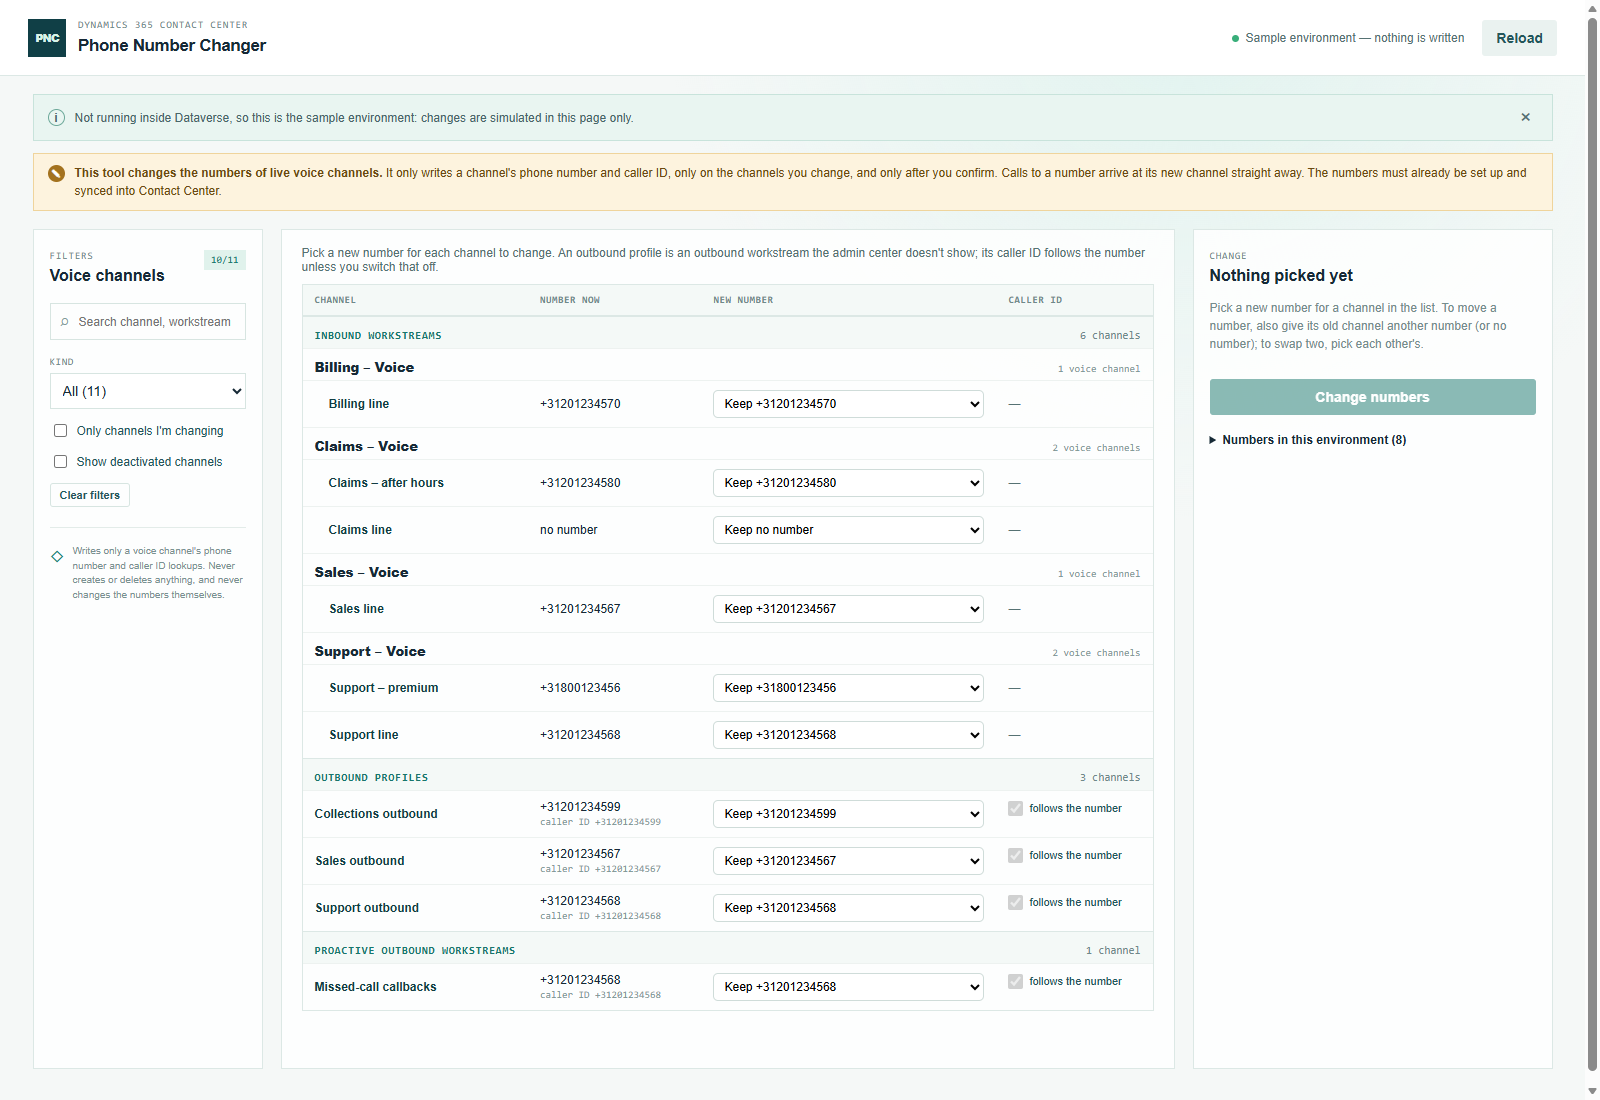
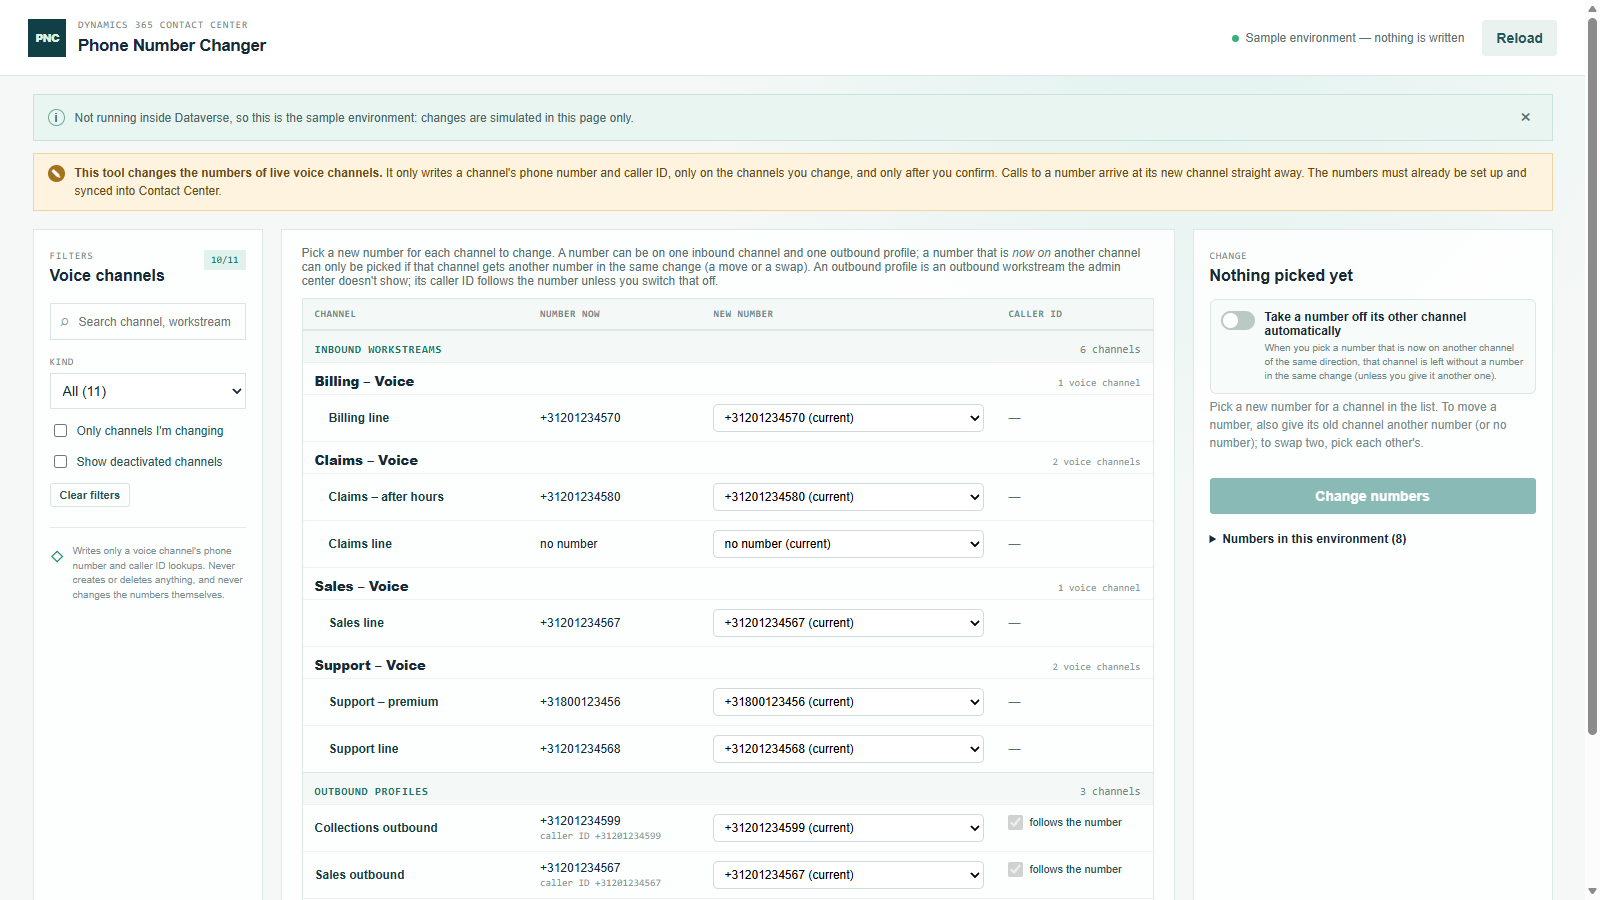
Phone Number Changer: switch to take a number off its other channel automatically
With the switch on (off by default), picking a number that is now on
another channel of the same direction also takes it off that channel in the
same change, shown as "taken off automatically"; a profile's caller ID goes
with it only when it was the same number.

diff --git a/tools/phone-number-changer/src/App.tsx b/tools/phone-number-changer/src/App.tsx
@@ -11,7 +11,7 @@ import { clientUrl, dataverseSource, isDataverseAvailable } from "./dataverse";
 import { demoSource } from "./demoData";
 import { runLogCsv } from "./export";
 import { ApplyResult, ChannelRow, Edit, isOutbound, Kind, KIND_LABELS, KIND_PLURALS, PhoneNumber } from "./model";
-import { choicesFor, describeChange, numberLabel, orderSteps, planChanges, revertEdits } from "./plan";
+import { choicesFor, describeChange, numberLabel, orderSteps, planChanges, revertEdits, withDetaches } from "./plan";
 
 interface Filter { search: string; kind: "all" | Kind; includeInactive: boolean; changedOnly: boolean; }
 const EMPTY_FILTER: Filter = { search: "", kind: "all", includeInactive: false, changedOnly: false };
@@ -32,6 +32,9 @@ export function App(): React.ReactElement {
   const [message, setMessage] = useState(live ? "" : "Not running inside Dataverse, so this is the sample environment: changes are simulated in this page only.");
   const [filter, setFilter] = useState<Filter>(EMPTY_FILTER);
   const [edits, setEdits] = useState<Map<string, Edit>>(new Map());
+  // Take a number off its other channel automatically when another channel gets it.
+  const [detach, setDetach] = useState(false);
+  const effective = useMemo(() => (detach ? withDetaches(channels, edits) : edits), [detach, channels, edits]);
   const [confirming, setConfirming] = useState(false);
   const [progress, setProgress] = useState<ApplyProgress | undefined>(undefined);
   const [run, setRun] = useState<RunRecord | undefined>(undefined);
@@ -53,7 +56,7 @@ export function App(): React.ReactElement {
   useEffect(() => { void reload(); }, []);
 
   const numberById = useMemo(() => new Map(numbers.map((n) => [n.id, n])), [numbers]);
-  const plan = useMemo(() => planChanges(channels, numbers, edits), [channels, numbers, edits]);
+  const plan = useMemo(() => planChanges(channels, numbers, effective), [channels, numbers, effective]);
   const changeById = useMemo(() => new Map(plan.changes.map((c) => [c.channel.id, c])), [plan]);
   const issuesById = useMemo(() => {
     const m = new Map<string, typeof plan.issues>();
@@ -162,7 +165,7 @@ export function App(): React.ReactElement {
 
       <section className="content">
         <div className="selection-bar">
-          <span>Pick a new number for each channel to change. A number can be on one inbound channel and one outbound profile; a number that is <em>now on</em> another channel can only be picked if that channel gets another number in the same change (a move or a swap). An outbound profile is an outbound workstream the admin center doesn't show; its caller ID follows the number unless you switch that off.</span>
+          <span>Pick a new number for each channel to change. A number can be on one inbound channel and one outbound profile; a number that is <em>now on</em> another channel can only be picked if that channel gets another number in the same change (a move or a swap), or with <strong>Take a number off its other channel automatically</strong> switched on. An outbound profile is an outbound workstream the admin center doesn't show; its caller ID follows the number unless you switch that off.</span>
           {edits.size > 0 && <button className="button ghost small" onClick={() => { setEdits(new Map()); setConfirming(false); }}>Undo all picks</button>}
         </div>
         <div className="data-table number-table" role="table" aria-label="Voice channels and their numbers">
@@ -187,7 +190,7 @@ export function App(): React.ReactElement {
                   <option value="">{numberLabel(numberById, c.numberId)} (current)</option>
                   {choicesFor(c, numbers, channels).map(({ number, reason, heldBy }) => (
                     <option key={number.id} value={number.id} disabled={!!reason}>
-                      {number.number} — {reason ?? (heldBy.length ? `now on ${heldBy.map((h) => h.name).join(", ")}` : "free")}
+                      {number.number} — {reason ?? (heldBy.length ? `now on ${heldBy.map((h) => h.name).join(", ")}${detach ? " (taken off it)" : ""}` : "free")}
                     </option>
                   ))}
                   {c.numberId && <option value="none">No number</option>}
@@ -204,8 +207,12 @@ export function App(): React.ReactElement {
       <aside className="inspector">
         <p className="eyebrow">Change</p>
         <h2>{plan.changes.length ? `${plan.changes.length} channel${plan.changes.length === 1 ? "" : "s"} to change` : "Nothing picked yet"}</h2>
+        <label className="switch-row">
+          <input type="checkbox" role="switch" checked={detach} disabled={busy} onChange={(e) => { setDetach(e.target.checked); setConfirming(false); }} />
+          <span><strong>Take a number off its other channel automatically</strong><small>When you pick a number that is now on another channel of the same direction, that channel is left without a number in the same change (unless you give it another one).</small></span>
+        </label>
         {plan.changes.length ? <ul className="plan-list">
-          {plan.changes.map((c) => <li key={c.channel.id} className={(issuesById.get(c.channel.id) ?? []).some((i) => i.severity === "error") ? "error" : ""}>
+          {plan.changes.map((c) => <li key={c.channel.id} className={`${(issuesById.get(c.channel.id) ?? []).some((i) => i.severity === "error") ? "error" : ""} ${c.auto ? "auto" : ""}`}>
             <strong>{c.channel.name}</strong><span>{describeChange(c, numberById)}</span>
           </li>)}
         </ul> : <p className="muted">Pick a new number for a channel in the list. To move a number, also give its old channel another number (or no number); to swap two, pick each other's.</p>}
@@ -215,7 +222,7 @@ export function App(): React.ReactElement {
           ? <button className="button primary full" disabled={!plan.changes.length || errors.length > 0 || busy} onClick={() => setConfirming(true)}>Change {plan.changes.length || ""} number{plan.changes.length === 1 ? "" : "s"}</button>
           : <div className="confirm-box">
             <p><strong>Change the numbers of {plan.changes.length} voice channel{plan.changes.length === 1 ? "" : "s"} in {environment}?</strong> Calls to a moved number arrive at its new channel straight away. You can revert this afterwards, and download a log of it.</p>
-            <div><button className="button ghost" onClick={() => setConfirming(false)}>Cancel</button><button className="button danger" onClick={() => void runSteps("apply", edits)}>Yes, change</button></div>
+            <div><button className="button ghost" onClick={() => setConfirming(false)}>Cancel</button><button className="button danger" onClick={() => void runSteps("apply", effective)}>Yes, change</button></div>
           </div>}
 
         <details className="numbers-overview">

diff --git a/tools/phone-number-changer/tests/plan.test.ts b/tools/phone-number-changer/tests/plan.test.ts
@@ -2,7 +2,7 @@
 // SPDX-License-Identifier: MIT
 
 import { ChannelRow, Edit, PhoneNumber } from "../src/model";
-import { afterOf, choicesFor, orderSteps, planChanges, revertEdits } from "../src/plan";
+import { afterOf, choicesFor, orderSteps, planChanges, revertEdits, withDetaches } from "../src/plan";
 
 const n = (id: string, extra: Partial<PhoneNumber> = {}): PhoneNumber => ({ id, number: `+31${id}`, active: true, inbound: true, outbound: true, ...extra });
 const ch = (id: string, kind: ChannelRow["kind"], numberId?: string, callerIdId?: string, extra: Partial<ChannelRow> = {}): ChannelRow =>
@@ -102,5 +102,27 @@ describe("revertEdits", () => {
     const plan = planChanges([p, a], numbers, edits(["p", { numberId: "3", callerIdFollows: false }], ["a", { numberId: "3" }]));
     const back = revertEdits(plan.changes.map((change, i) => ({ change, status: i === 0 ? "updated" : "failed" as const })));
     expect([...back.entries()]).toEqual([["p", { numberId: "1", callerIdId: undefined, callerIdFollows: false }]]);
+  });
+});
+
+describe("withDetaches (take a number off its other channel automatically)", () => {
+  test("the channel on the same side that has the picked number loses it, in the same change", () => {
+    const a = ch("a", "inbound", "1"), b = ch("b", "inbound", "2"), p = ch("p", "outbound", "1", "1");
+    const all = withDetaches([a, b, p], edits(["b", { numberId: "1" }]));
+    expect(all.get("a")).toEqual({ numberId: null, callerIdFollows: true, auto: true });
+    // The outbound profile on that number is the other side: it keeps it.
+    expect(all.has("p")).toBe(false);
+    const plan = planChanges([a, b, p], numbers, all);
+    expect(plan.issues.filter((i) => i.severity === "error")).toEqual([]);
+    expect(plan.changes.find((c) => c.channel.id === "a")).toMatchObject({ auto: true, after: { numberId: undefined } });
+    expect(orderSteps(plan, [a, b, p]).map((s) => s.change.channel.id)).toEqual(["a", "b"]);
+  });
+
+  test("a channel you change yourself is left as you picked; a profile keeps a caller ID that isn't its number", () => {
+    const a = ch("a", "inbound", "1"), b = ch("b", "inbound", "2");
+    expect(withDetaches([a, b], edits(["b", { numberId: "1" }], ["a", { numberId: "3" }])).get("a")).toEqual({ numberId: "3" });
+    const p = ch("p", "outbound", "1", "2"), q = ch("q", "outbound", "3", "3");
+    const all = withDetaches([p, q], edits(["q", { numberId: "1" }]));
+    expect(planChanges([p, q], numbers, all).changes.find((c) => c.channel.id === "p")?.after).toEqual({ numberId: undefined, callerIdId: "2" });
   });
 });

diff --git a/tools/phone-number-changer/src/plan.ts b/tools/phone-number-changer/src/plan.ts
@@ -83,7 +83,7 @@ export function planChanges(channels: ChannelRow[], numbers: PhoneNumber[], edit
     const after = afterOf(channel, edit);
     const number = before.numberId !== after.numberId;
     const callerId = before.callerIdId !== after.callerIdId;
-    if (number || callerId) changes.push({ channel, before, after, number, callerId });
+    if (number || callerId) changes.push({ channel, before, after, number, callerId, ...(edit.auto ? { auto: true } : {}) });
   });
 
   const issues: Issue[] = [];
@@ -112,6 +112,22 @@ export function planChanges(channels: ChannelRow[], numbers: PhoneNumber[], edit
     }
   });
   return { changes, issues };
+}
+
+// With "take a number off its other channel automatically" on: every channel on the same side that
+// has a number someone else picked (and isn't being changed itself) gets no number, in the same change.
+// The added edits are marked auto.
+export function withDetaches(channels: ChannelRow[], edits: Map<string, Edit>): Map<string, Edit> {
+  const all = new Map(edits);
+  edits.forEach((edit, id) => {
+    const channel = channels.find((c) => c.id === id);
+    const side = channel && sideOf(channel.kind);
+    if (!channel || !side || !edit.numberId || edit.numberId === channel.numberId) return;
+    channels
+      .filter((o) => o.id !== id && sideOf(o.kind) === side && o.numberId === edit.numberId && !edits.has(o.id))
+      .forEach((o) => all.set(o.id, { numberId: null, callerIdFollows: !o.callerIdId || o.callerIdId === o.numberId, auto: true }));
+  });
+  return all;
 }
 
 // The updates to send, in a safe order: a channel gets a number only once no other channel on the
@@ -169,7 +185,7 @@ export function revertEdits(results: ApplyResult[]): Map<string, Edit> {
 }
 
 export function describeChange(c: PlannedChange, numbers: Map<string, PhoneNumber>): string {
-  const parts: string[] = [];
+  const parts: string[] = c.auto ? ["taken off automatically"] : [];
   if (c.number) parts.push(`number ${numberLabel(numbers, c.before.numberId)} → ${numberLabel(numbers, c.after.numberId)}`);
   if (c.callerId) parts.push(`caller ID ${numberLabel(numbers, c.before.callerIdId)} → ${numberLabel(numbers, c.after.callerIdId)}`);
   return parts.join("; ");

diff --git a/tools/phone-number-changer/css/phoneNumberChanger.css b/tools/phone-number-changer/css/phoneNumberChanger.css
@@ -156,3 +156,13 @@ h2, h3, p { margin-top: 0; }
 .group-head { display: flex; justify-content: space-between; align-items: baseline; padding: 9px 12px 4px; border-top: 1px solid #edf2f0; font-size: 13px; font-weight: 800; color: #172a36; }
 .group-head span:last-child { color: #7c9696; font: 10px 'DM Mono', monospace; font-weight: 400; }
 .number-table .channel-cell { padding-left: 26px !important; }
+/* The "take off automatically" switch. */
+.switch-row { display: flex; gap: 10px; align-items: flex-start; margin: 10px 0 4px; padding: 10px; border: 1px solid #dce8e5; border-radius: 6px; background: #f7fbf9; cursor: pointer; }
+.switch-row input { appearance: none; flex-shrink: 0; width: 34px; height: 19px; margin: 1px 0 0; border-radius: 10px; background: #b9c9c6; position: relative; cursor: pointer; transition: background .15s; }
+.switch-row input::after { content: ""; position: absolute; top: 2px; left: 2px; width: 15px; height: 15px; border-radius: 50%; background: #fff; transition: left .15s; }
+.switch-row input:checked { background: #17766c; }
+.switch-row input:checked::after { left: 17px; }
+.switch-row input:focus-visible { outline: 2px solid #17766c; outline-offset: 2px; }
+.switch-row span { display: flex; flex-direction: column; gap: 3px; font-size: 12px; }
+.switch-row small { color: #6e898a; line-height: 1.4; }
+.plan-list li.auto { border-style: dashed; }

diff --git a/tools/phone-number-changer/src/model.ts b/tools/phone-number-changer/src/model.ts
@@ -61,6 +61,8 @@ export interface Edit {
   numberId: string | null;
   callerIdFollows?: boolean;
   callerIdId?: string | null;
+  // Added by the tool: the number was taken off this channel because another channel got it.
+  auto?: boolean;
 }
 
 export type Severity = "error" | "warning";
@@ -78,6 +80,8 @@ export interface PlannedChange {
   // Which of the two lookups change.
   number: boolean;
   callerId: boolean;
+  // The number is taken off because another channel gets it ("take off automatically").
+  auto?: boolean;
 }
 
 export interface Plan {

diff --git a/Readme.md b/Readme.md
@@ -45,7 +45,7 @@ Please open an [issue on GitHub](https://github.com/ameijers/PrometheanCCaaSTool
 | [Voicemail Builder](tools/voicemail-builder/README.md) | Sets up voicemail for voice queues in bulk from a CSV file, each with its own voicemail location: overflow to voicemail on the queue (added or updated; existing rules with another action overwritten or skipped, as chosen), a voicemail Record queue with members, a voicemail workstream, and the intake rule that routes the queue's voicemails there. | Creates `queue` (Record), `msdyn_liveworkstream` (voicemail workstreams) and `msdyn_decisionruleset` (overflow); adds queue members; updates only overflow and voicemail intake rules and a queue's overflow links. Never deletes. |
 | [Business Unit Builder](tools/business-unit-builder/README.md) (*Business Units Builder* in the app) | Creates business units in bulk from a CSV file — whole hierarchies in one file, in any row order: a parent can be an existing business unit or another row. Shows the resulting hierarchy as a tree before anything is created, and creates parents first. | Creates only: `businessunit`. Never updates, disables or deletes. |
 | [Recording & Transcription Provisioner](tools/voice-recording-provisioner/README.md) (*Recording & Transcription* in the app) | Sets transcript and recording on a selection of voice channels at once — None, Transcript, or Transcript and Recording — with a per-channel preview, a read-back check afterwards, and a one-click revert. | Updates only the recording/transcription columns of `msdyn_ocvoicechannelsetting`. Never creates or deletes. |
-| [Phone Number Changer](tools/phone-number-changer/README.md) | Changes which phone number voice channels use: inbound workstreams, outbound profiles (their hidden outbound workstreams) and proactive outbound. Move a number from one to another, swap two, or give a channel a new one, in one go: only numbers enabled for the direction, a number on at most one inbound channel and one outbound profile, a safe order, a read-back check and a revert. The number must already be synced into Contact Center. **New: tried on sample data; not yet tested live or in the solution zip.** | Updates only `msdyn_phonenumberid` and `msdyn_calleridphonenumberid` of `msdyn_ocvoicechannelsetting`. Never creates or deletes, and never changes the numbers themselves. |
+| [Phone Number Changer](tools/phone-number-changer/README.md) | Changes which phone number voice channels use: inbound workstreams, outbound profiles (their hidden outbound workstreams) and proactive outbound. Move a number from one to another (optionally taking it off its old channel automatically), swap two, or give a channel a new one, in one go: only numbers enabled for the direction, a number on at most one inbound channel and one outbound profile, a safe order, a read-back check and a revert. The number must already be synced into Contact Center. **New: tried on sample data; not yet tested live or in the solution zip.** | Updates only `msdyn_phonenumberid` and `msdyn_calleridphonenumberid` of `msdyn_ocvoicechannelsetting`. Never creates or deletes, and never changes the numbers themselves. |
 | [Assignment Method Copier](tools/assignment-method-copier/README.md) (*Queue Assignment Method Copier* in the app) | Copies one queue's custom assignment method (its prioritization and assignment rulesets) to a selection of other queues, with a per-queue preview, a read-back check and a switch back. | Creates `msdyn_assignmentconfiguration`, `msdyn_assignmentconfigurationstep` and `msdyn_decisionruleset`; updates only `msdyn_isactiveconfiguration` on a method and `msdyn_assignmentstrategy` on a `queue`. Never deletes. |
 
 ### Onboarding agents (provisioning tools)

diff --git a/tools/phone-number-changer/README.md b/tools/phone-number-changer/README.md
@@ -25,6 +25,8 @@ Every voice channel (`msdyn_ocvoicechannelsetting`), grouped by what its workstr
    - the number isn't active, or isn't enabled for the direction;
    - the number would be on **two inbound channels**, or used by **two outbound profiles**. A number can be on one inbound channel and one outbound profile (they may share it), no more: give the other channel another number (or no number) in the same change (that's a move), or pick each other's (a swap).
 
+   With **Take a number off its other channel automatically** switched on (it's off by default), picking a number that is now on another channel of the same direction takes it off that channel in the same change: that channel is listed as "taken off automatically" and is left without a number, unless you give it another one yourself.
+
    A channel left without a number, or a deactivated channel, give a warning but don't block.
 3. **Change.** After a confirmation naming the environment, the channels are updated one at a time in a safe order: a channel giving its number away is updated before the one taking it, and in a swap one channel's number is freed first. Before a channel takes a number the tool checks no other channel on the same side (inbound, or outbound) still has it; if one does (because its update failed), that change is skipped instead of doubling the number up. Then every channel is read back to confirm.
 4. **Review, log and revert.** The result shows what changed, what didn't and why. **Download log** saves the run; **Revert this change** puts the previous numbers back, in the same safe order.

diff --git a/tools/phone-number-changer/IMPLEMENTATION_STATUS.md b/tools/phone-number-changer/IMPLEMENTATION_STATUS.md
@@ -24,5 +24,6 @@ Read live from `academyexperiment` with GETs only (metadata, rows, plug-in steps
 - **One inbound channel and one outbound profile per number** (after review; first the tool only limited inbound): blocked in the plan, and checked again before each update (an earlier update in the run may have failed). One inbound channel and one outbound profile sharing a number is normal and gives no warning.
 - **The picker** starts on the current number, marked "(current)" (after review: "Keep <number>" was unclear), and labels every other number free, now on (another channel of the same side, named), or why it can't be used.
 - **Safe order** (`orderSteps`), per side: the channel giving a number away first; a swap frees one number first. A channel freed for a swap whose final update then fails is reported as having no number.
+- **Take a number off its other channel automatically** (after review, a switch, off by default): `withDetaches` adds a "no number" edit, marked auto, for every channel on the same side that has a picked number and isn't being changed itself; the usual planning, order, checks, log and revert apply. A profile's caller ID goes with it only when it was the same number.
 - **Caller ID follows the number** on outbound channels by default, because that's how every profile in the environment was set up; it can be switched off per channel.
 - Edits per row (no selection + one setting), since every channel gets its own number.

diff --git a/tools/phone-number-changer/manual.md b/tools/phone-number-changer/manual.md
@@ -34,6 +34,8 @@ On an outbound profile, **follows the number** keeps the caller ID the same as t
 - **Move a number** from channel A to channel B: on B pick A's number, and on A pick another number (or No number).
 - **Swap two numbers:** on each channel pick the other's number.
 
+**Take a number off its other channel automatically** (the switch above the list of changes, off by default): when it's on, picking a number that is now on another channel of the same direction also takes it off that channel. That channel shows up in the change as **taken off automatically** and is left without a number; give it another number yourself if it needs one. An outbound profile that loses its number also loses its caller ID when that was the same number.
+
 **Undo all picks** clears them.
 
 ## 4. Checking
